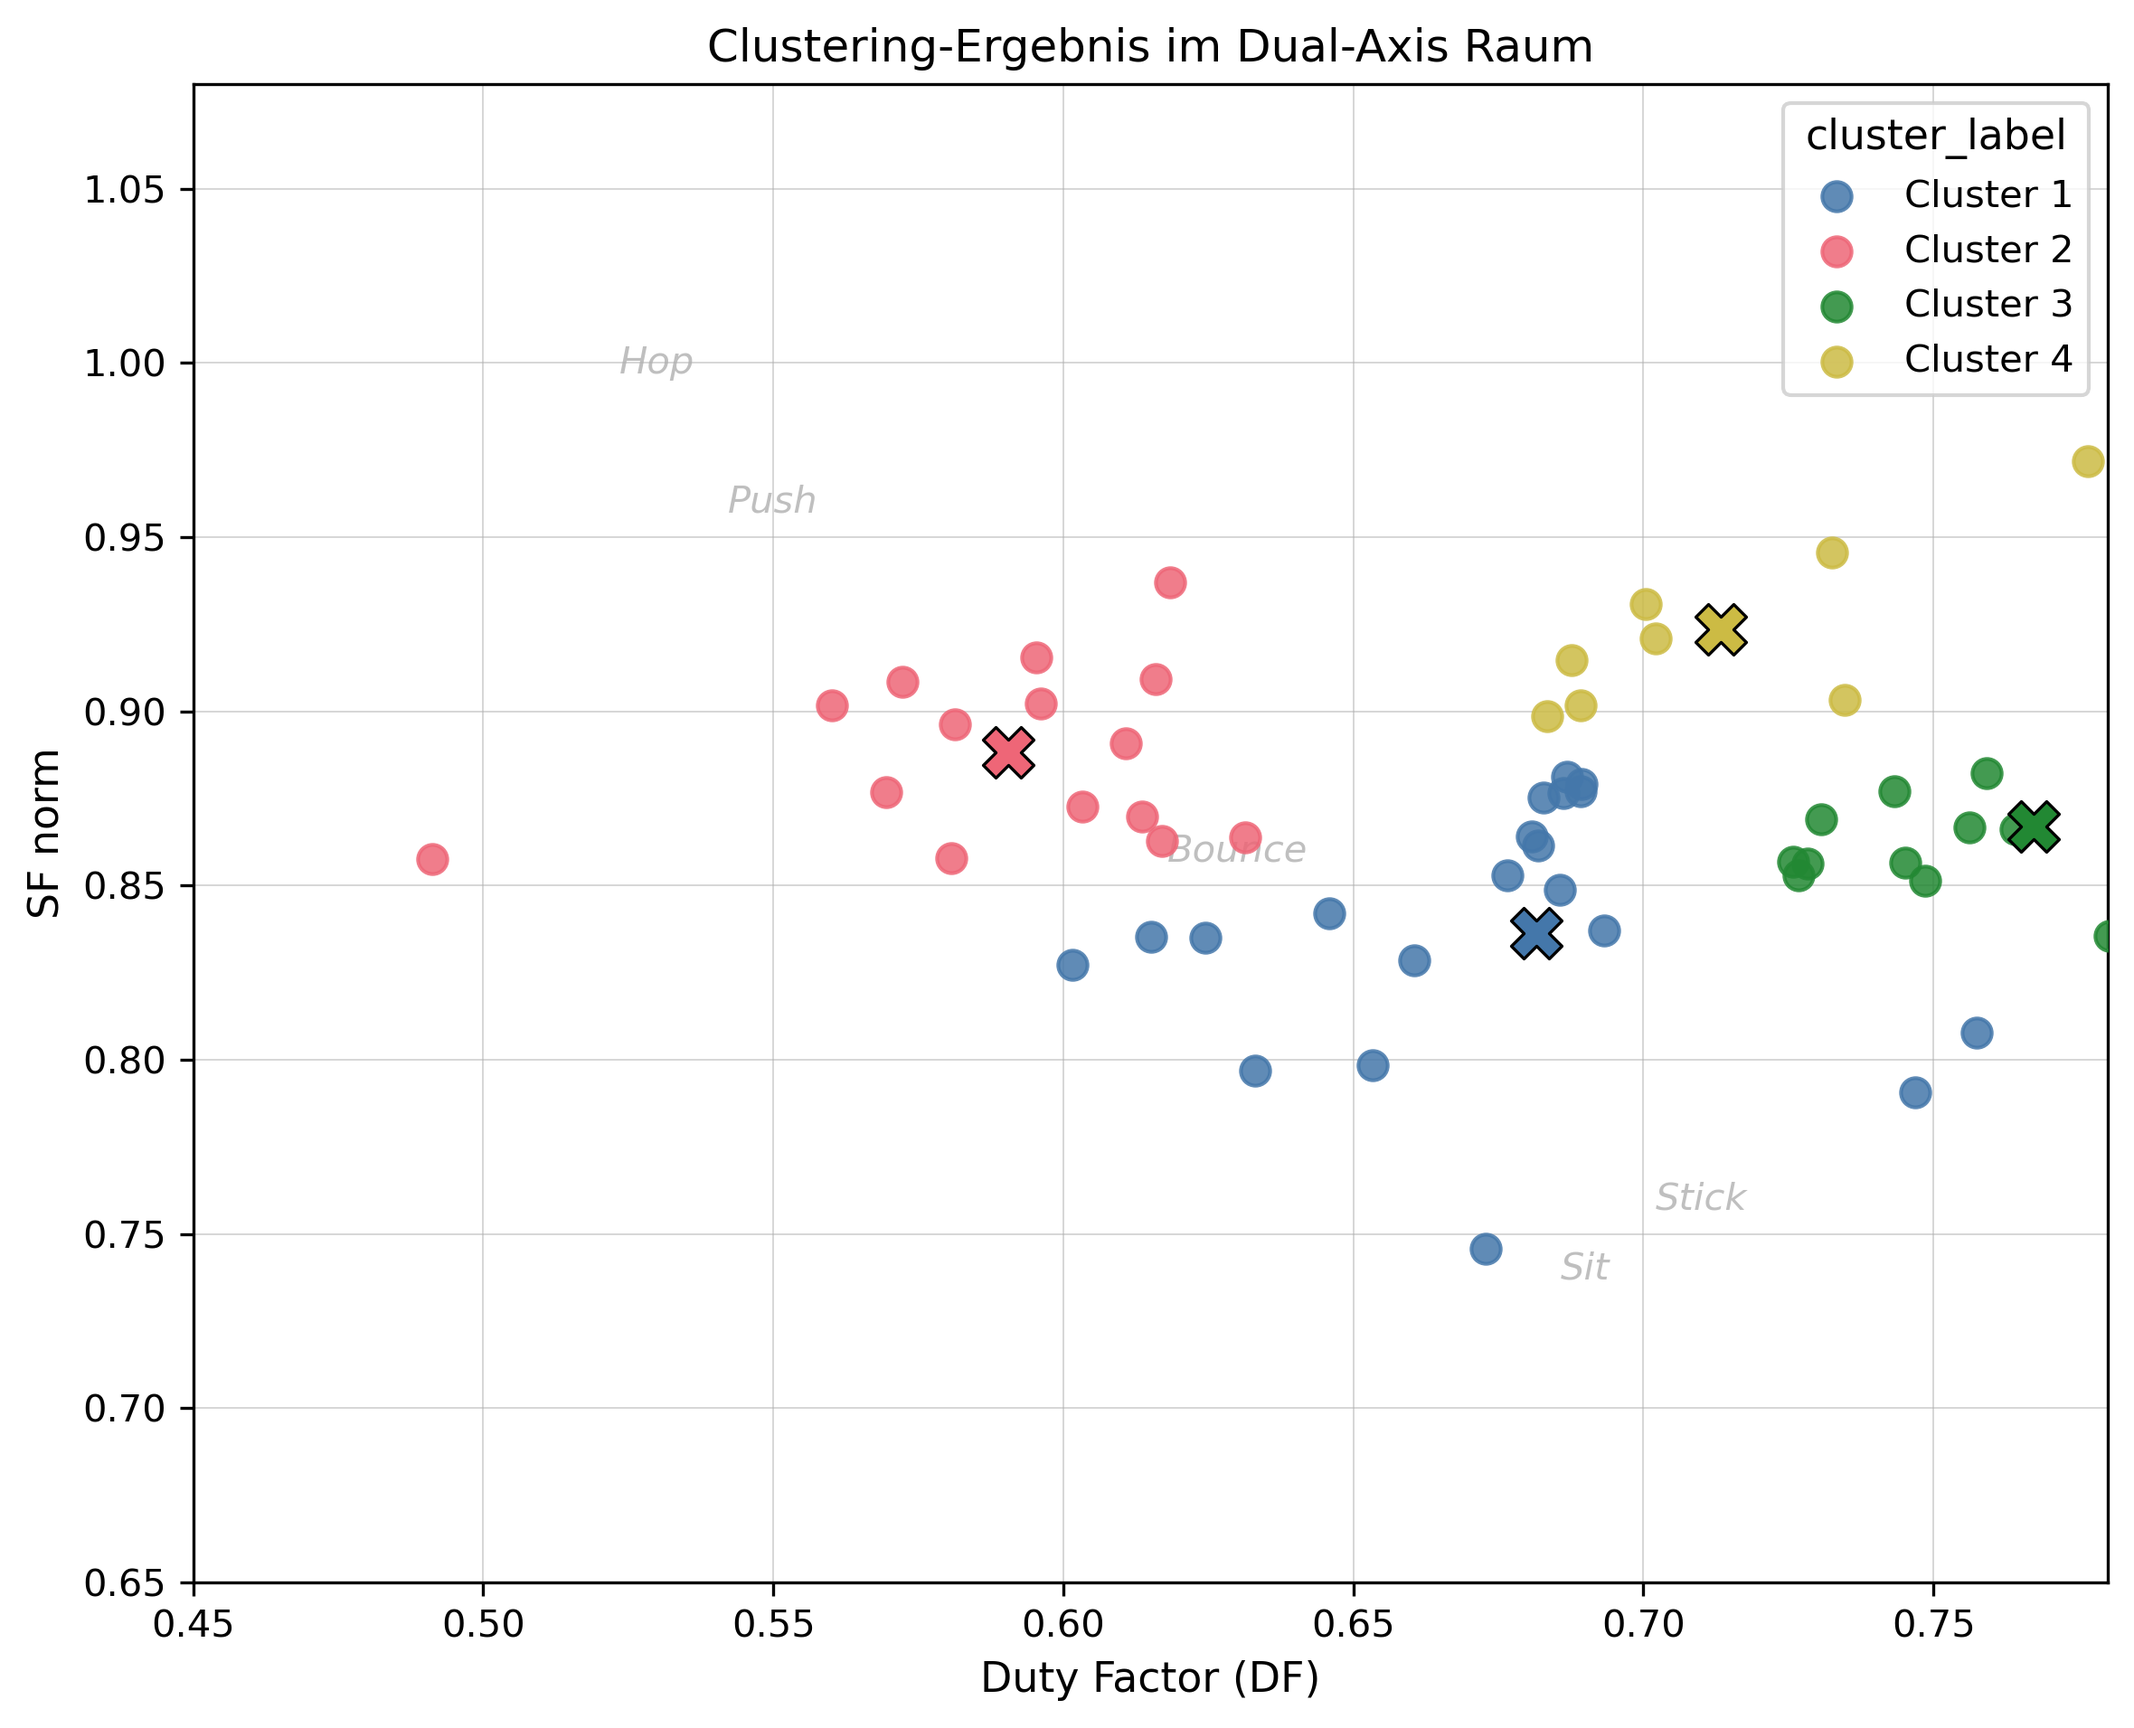
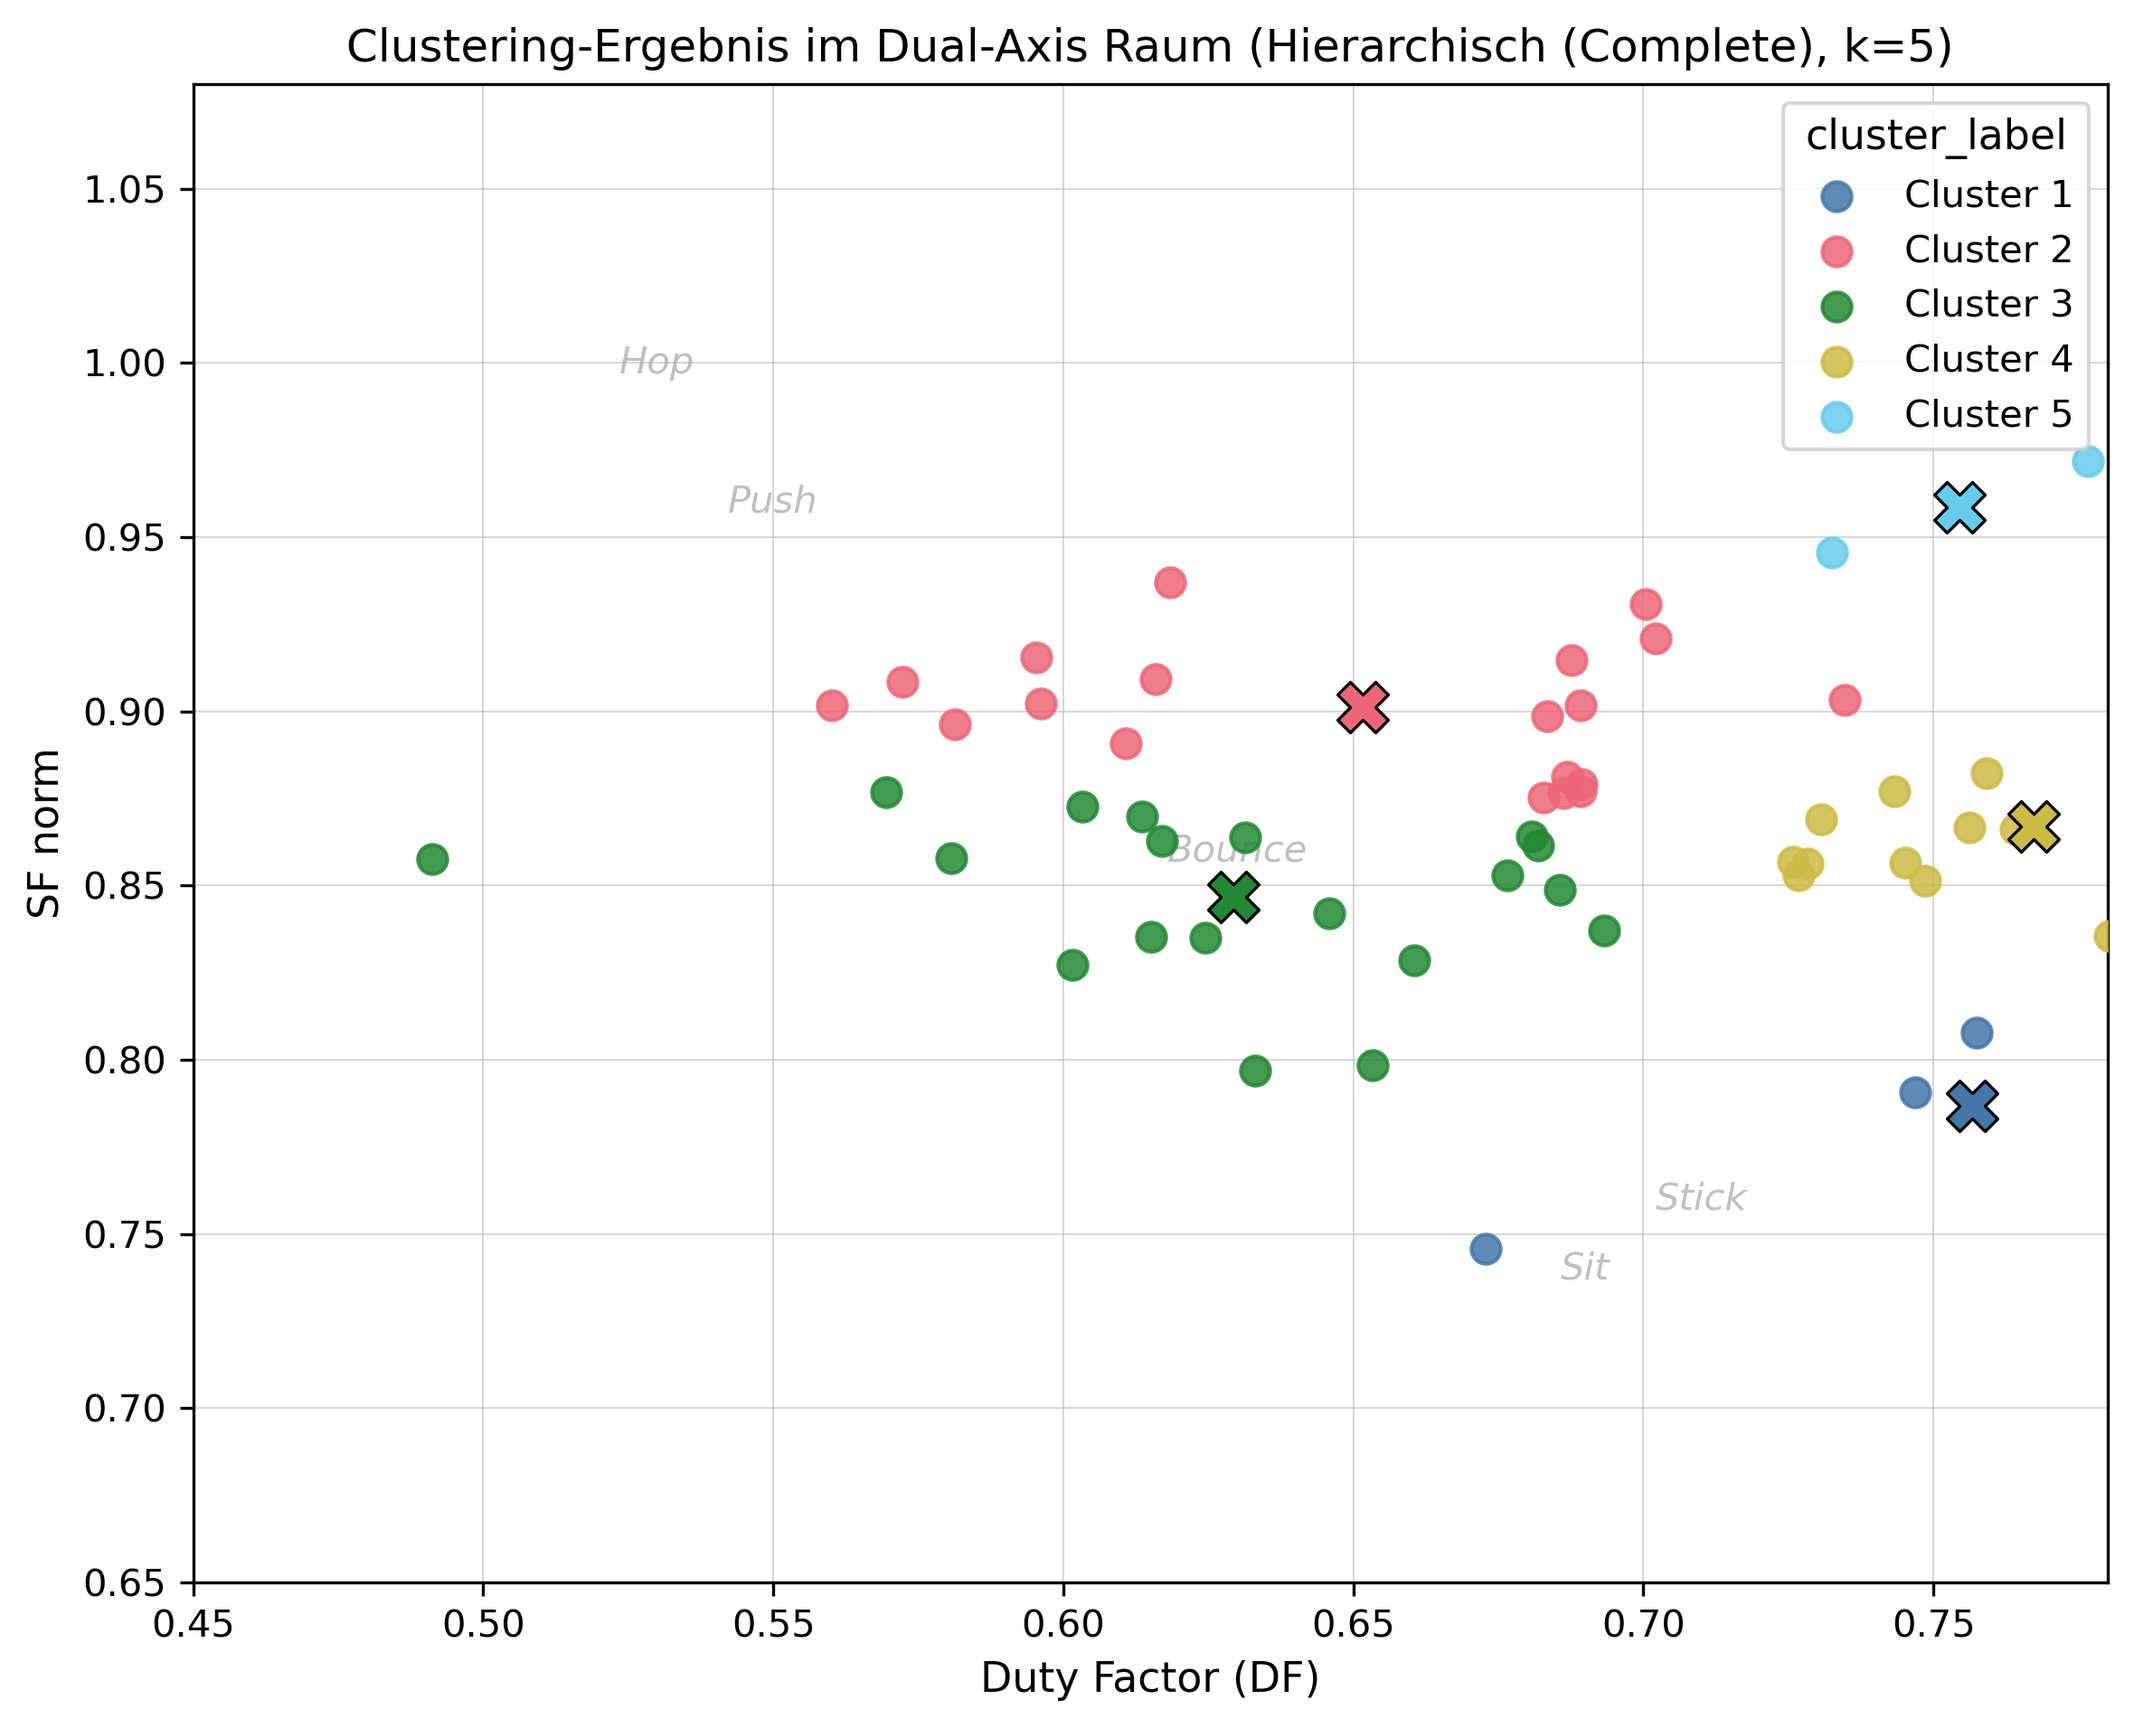
plots überarbeitet

diff --git a/Bachelor-Arbeit-Cluster-Analyse/src/extension/viz_plots.py b/Bachelor-Arbeit-Cluster-Analyse/src/extension/viz_plots.py
@@ -26,11 +26,11 @@ import pandas as pd
 # Positionen der van Oeveren Regionen im Dual-Axis Raum
 # Quelle: van Oeveren et al. (2021)
 _REGION_LABELS: list[tuple[str, float, float]] = [
-    ("Stick",  0.71, 0.76),
-    ("Bounce", 0.63, 0.86),
-    ("Push",   0.55, 0.96),
-    ("Hop",    0.53, 1.00),
-    ("Sit",    0.69, 0.74),
+    ("Bounce", 0.53, 0.86),   # kleiner DF, mittlere SF_norm
+    ("Hop",    0.62, 0.97),   # mittlerer DF, hohe SF_norm
+    ("Sit",    0.62, 0.86),   # Mitte beides
+    ("Push",   0.62, 0.77),   # mittlerer DF, kleine SF_norm
+    ("Stick",  0.76, 0.86),   # grosser DF, mittlere SF_norm
 ]
 
 # Farb-Palette (farbenblinden-freundlich, Paul Tol)
@@ -50,7 +50,7 @@ _BASE_RCPARAMS = {
 
 FIGSIZE = (8.0, 6.5)
 DPI     = 300
-XLIM    = (0.45, 0.78)   # DF-Achse, einheitlich fuer alle drei Plots
+XLIM    = (0.45, 0.88)   # DF-Achse, einheitlich fuer alle drei Plots
 YLIM    = (0.65, 1.08)   # SF_norm-Achse, einheitlich fuer alle drei Plots
 
 
@@ -104,14 +104,38 @@ def _method_label(selection):
         return ""
     method = selection.get("method", "")
     if method == "kmeans":
-        return f"k-Means, k={selection.get('k', '?')}"
-    if method == "hierarchical":
+        label = f"k-Means, k={selection.get('k', '?')}"
+    elif method == "hierarchical":
         linkage = selection.get("linkage", "").capitalize()
-        return f"Hierarchisch ({linkage}), k={selection.get('k', '?')}"
-    if method == "hdbscan":
+        label = f"Hierarchisch ({linkage}), k={selection.get('k', '?')}"
+    elif method == "hdbscan":
         mcs = selection.get("min_cluster_size", "?")
-        return f"HDBSCAN, mcs={mcs}"
-    return method
+        label = f"HDBSCAN, mcs={mcs}"
+    else:
+        label = method
+    speed_str = "speedbereinigt" if selection.get("speed_corrected") else "Rohdaten"
+    return f"{label} | {speed_str}"
+
+
+
+def _file_suffix(selection):
+    """Kurzer Dateiname-Suffix aus dem gewaehlten Verfahren, z.B. '_kmeans_k3_speedber'."""
+    if selection is None:
+        return ""
+    method = selection.get("method", "")
+    if method == "kmeans":
+        base = f"_kmeans_k{selection.get('k', '?')}"
+    elif method == "hierarchical":
+        linkage = selection.get("linkage", "")
+        base = f"_hierarchisch_{linkage}_k{selection.get('k', '?')}"
+    elif method == "hdbscan":
+        mcs = selection.get("min_cluster_size", "?")
+        ms  = selection.get("min_samples", "auto")
+        base = f"_hdbscan_mcs{mcs}_ms{ms}"
+    else:
+        base = f"_{method}"
+    speed_str = "_speedber" if selection.get("speed_corrected") else "_roh"
+    return base + speed_str
 
 
 # ── Plot 1 ────────────────────────────────────────────────────────────────────
@@ -248,7 +272,7 @@ def dual_axis_arrows(
     ax.legend(handles=handles, title=cluster_col, loc="best", frameon=True)
 
     fig.tight_layout()
-    _save(fig, out_dir, "dual_axis_arrows.png")
+    _save(fig, out_dir, f"dual_axis_arrows{_file_suffix(selection)}.png")
     return fig, ax
 
 
@@ -306,7 +330,7 @@ def cluster_scatter(
     ax.legend(title=cluster_col, loc="best", frameon=True)
 
     fig.tight_layout()
-    _save(fig, out_dir, "cluster_scatter.png")
+    _save(fig, out_dir, f"cluster_scatter{_file_suffix(selection)}.png")
     return fig, ax
 
 
@@ -315,6 +339,7 @@ def cluster_scatter(
 def metrics_table(
     df_results: pd.DataFrame,
     *,
+    selection=None,
     out_dir: Optional[Path] = None,
 ) -> plt.Figure:
     """
@@ -584,7 +609,8 @@ def metrics_table(
         color="#222222",
     )
 
-    _save(fig, out_dir, "metrics_table.png")
+    speed_str = "_speedber" if (selection or {}).get("speed_corrected") else "_roh"
+    _save(fig, out_dir, f"metrics_table{speed_str}.png")
     plt.close(fig)
     return fig
 
@@ -655,7 +681,7 @@ def elbow_plot(
     fig.tight_layout()
 
     cfg.OUTPUT_PLOTS_DIR.mkdir(parents=True, exist_ok=True)
-    out = cfg.OUTPUT_PLOTS_DIR / "elbow_plot.png"
+    out = cfg.OUTPUT_PLOTS_DIR / f"elbow_plot{_file_suffix(selection)}.png"
     fig.savefig(out, dpi=DPI, bbox_inches="tight")
     plt.close(fig)
     print(f"  Elbow-Plot gespeichert -> {out}")
@@ -751,10 +777,60 @@ def dendrogram_plot(
     fig.tight_layout()
 
     cfg.OUTPUT_PLOTS_DIR.mkdir(parents=True, exist_ok=True)
-    out = cfg.OUTPUT_PLOTS_DIR / "dendrogram.png"
+    out = cfg.OUTPUT_PLOTS_DIR / f"dendrogram{_file_suffix(selection)}.png"
     fig.savefig(out, dpi=DPI, bbox_inches="tight")
     plt.close(fig)
     print(f"  Dendrogramm gespeichert -> {out}")
+
+
+# ── Plot 3b ───────────────────────────────────────────────────────────────────
+
+def cluster_scatter_residuals(
+    df_features_z: pd.DataFrame,
+    labels: "pd.Series",
+    selection: dict,
+    out_dir: Optional[Path] = None,
+) -> None:
+    """
+    Scatter im Residuen-Raum (z-transformierte DF_residual x SF_residual).
+    Nur sinnvoll bei Speed-Bereinigung.
+    """
+    plt.rcParams.update(_BASE_RCPARAMS)
+
+    df_labels = labels.reset_index()
+    df_labels.columns = ["Subject", "cluster_label"]
+    merged = df_features_z.merge(df_labels, on="Subject", how="left")
+
+    color_map = _build_color_map(merged["cluster_label"])
+
+    fig, ax = plt.subplots(figsize=FIGSIZE)
+    method_str = _method_label(selection)
+    ax.set_title(f"Clustering im Residuen-Raum\n({method_str})")
+    ax.set_xlabel("DF_residual (z-standardisiert)")
+    ax.set_ylabel("SF_residual (z-standardisiert)")
+    ax.grid(True, linewidth=0.4, alpha=0.6)
+
+    feat_cols = [c for c in df_features_z.columns if c != "Subject"]
+
+    for lab in sorted(color_map):
+        sub = merged[merged["cluster_label"] == lab]
+        c   = color_map[lab]
+        label_str = "Noise (HDBSCAN)" if lab == "Noise" else str(lab)
+        ax.scatter(sub[feat_cols[0]], sub[feat_cols[1]],
+                   color=c, s=60, alpha=0.85, zorder=3, label=label_str)
+        cx, cy = sub[feat_cols[0]].mean(), sub[feat_cols[1]].mean()
+        ax.scatter(cx, cy, marker="X", s=180, color=c,
+                   edgecolors="black", linewidths=0.8, zorder=5)
+
+    ax.legend(title="Cluster", loc="best", frameon=True)
+    fig.tight_layout()
+
+    suffix = _file_suffix(selection)
+    if out_dir is not None:
+        Path(out_dir).mkdir(parents=True, exist_ok=True)
+        fig.savefig(Path(out_dir) / f"cluster_scatter_residuen{suffix}.png",
+                    dpi=DPI, bbox_inches="tight")
+    plt.close(fig)
 
 
 # ── Alle Plots auf einmal ─────────────────────────────────────────────────────
@@ -794,11 +870,15 @@ def create_all_plots(
     print("  Plot 2: dual_axis_arrows ...")
     dual_axis_arrows(df_labeled, cluster_col="cluster_label", selection=selection, out_dir=cfg.OUTPUT_PLOTS_DIR)
 
-    print("  Plot 3: cluster_scatter ...")
+    print("  Plot 3: cluster_scatter (Dual-Axis Rohdaten) ...")
     cluster_scatter(df_labeled, cluster_col="cluster_label", selection=selection, out_dir=cfg.OUTPUT_PLOTS_DIR)
 
+    if selection.get("speed_corrected"):
+        print("  Plot 3b: cluster_scatter (Residuen-Raum) ...")
+        cluster_scatter_residuals(df_features_z, labels, selection, cfg.OUTPUT_PLOTS_DIR)
+
     print("  Plot 4: metrics_table ...")
-    metrics_table(df_results, out_dir=cfg.OUTPUT_PLOTS_DIR)
+    metrics_table(df_results, selection=selection, out_dir=cfg.OUTPUT_PLOTS_DIR)
 
     if selection["method"] == "hierarchical":
         print("  Plot 6: dendrogram_plot ...")

diff --git a/Bachelor-Arbeit-Cluster-Analyse/src/extension/descriptive.py b/Bachelor-Arbeit-Cluster-Analyse/src/extension/descriptive.py
@@ -135,13 +135,14 @@ def describe_clusters(
         rows = [(lbl, _stats_row(s)) for lbl, s in vars_]
         _print_table(f"  Cluster {cid}  (n = {n}):", rows)
 
+        # Breites Format: eine Zeile pro Cluster, Spalten = Variable_Kennwert
+        row_wide: dict = {"Verfahren": method_lbl, "Cluster": str(cid), "N": n}
         for lbl, stats in rows:
-            all_records.append({
-                "Verfahren": method_lbl,
-                "Cluster":   str(cid),
-                "Variable":  lbl,
-                **stats,
-            })
+            # Spaltenprefix: Sonderzeichen entfernen fuer saubere CSV-Header
+            prefix = lbl.replace(" ", "_").replace("[", "").replace("]", "").replace("/", "")
+            for kennwert in ("MW", "SD", "Min", "Max"):
+                row_wide[f"{prefix}_{kennwert}"] = stats[kennwert]
+        all_records.append(row_wide)
 
     # Speichern
     cfg.OUTPUT_DATA_DIR.mkdir(parents=True, exist_ok=True)

diff --git a/exploration/03_descriptive_stats.py b/exploration/03_descriptive_stats.py
@@ -81,6 +81,15 @@ def load_data() -> tuple[pd.DataFrame, pd.DataFrame]:
     subjects = pd.read_csv(SUBJECTS_CSV)
     dual     = pd.read_csv(DUAL_AXIS_CSV)
     km1      = dual[np.abs(dual["km"] - 1.0) <= 1e-6].copy()
+
+    # Nur Probanden mit tatsaechlichen km-1.0-Daten — gleiche Stichprobe wie Clustering
+    subjects_with_data = km1["Subject"].unique()
+    n_dropped = len(subjects) - len(subjects[subjects["Subject"].isin(subjects_with_data)])
+    if n_dropped > 0:
+        dropped = subjects[~subjects["Subject"].isin(subjects_with_data)]["Subject"].tolist()
+        print(f"  HINWEIS: {n_dropped} Proband(en) ohne km-1.0-Daten werden ausgeschlossen: {dropped}")
+    subjects = subjects[subjects["Subject"].isin(subjects_with_data)].reset_index(drop=True)
+
     return subjects, km1
 
 

diff --git a/config.py b/config.py
@@ -74,8 +74,8 @@ RUN_HDBSCAN       = True  # False bis hdbscan installiert ist
 HIERARCHICAL_LINKAGES = ["ward", "complete", "average", "single"]
 
 # HDBSCAN Parameter-Grid (nur relevant wenn RUN_HDBSCAN = True)
-HDBSCAN_MIN_CLUSTER_SIZES = [3, 4, 5]
-HDBSCAN_MIN_SAMPLES       = [None, 2, 3]
+HDBSCAN_MIN_CLUSTER_SIZES = [2, 3, 4, 5]
+HDBSCAN_MIN_SAMPLES       = [1, 2, 3]
 
 # Reproduzierbarkeit: fixer Zufallsseed fuer k-Means
 RANDOM_STATE = 42

diff --git a/main.py b/main.py
@@ -213,6 +213,7 @@ def main() -> None:
 
     # Schritt 5d: Konfiguration waehlen (zeigt Elbow + ggf. Dendrogramm vor k-Abfrage)
     selection = select_clustering(df_results, df_style_z, config)
+    selection["speed_corrected"] = ("DF_residual" in feature_cols)
 
     # Schritt 6: Finales Clustering
     labels = step5_run_final_clustering(df_style_z, selection)
